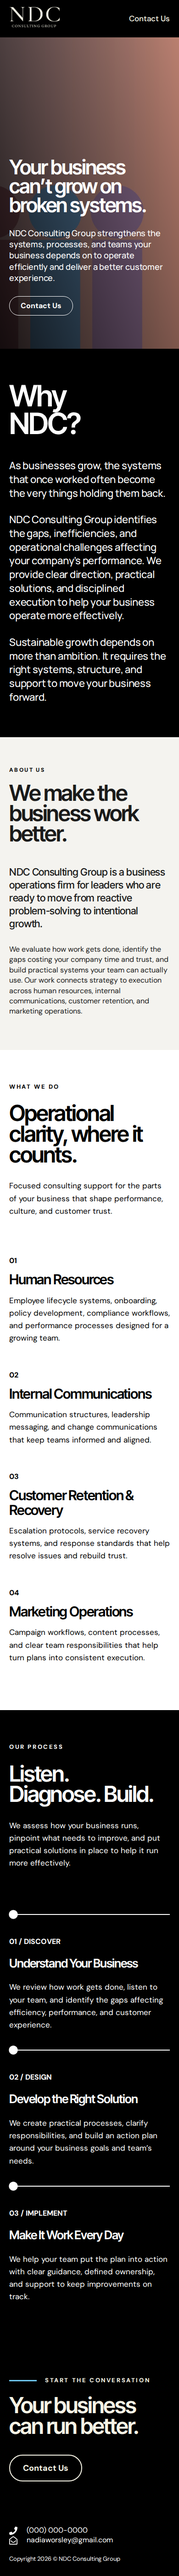
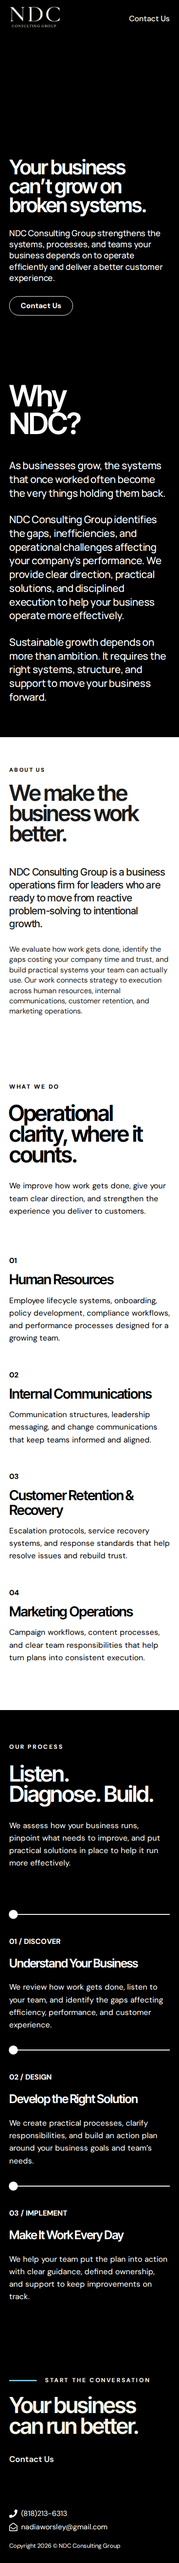
Final client revisions: alignment, copy, CTA link, white sections, footer spacing
- What We Do headline: shift 'Operational' left by the O's side bearing
  (0.047em in Inter Tight) so it lines up with 'where' below.
- What We Do side paragraph: new copy.
- Bottom Contact Us: plain, smaller text link instead of a pill button.
- About Us and Contact sections: solid white backgrounds.
- Footer: exactly 8px between icons and text (Elementor's default icon
  margin and text padding were stacking on top of the indent).

Claude-Session: https://claude.ai/code/session_01F9ZgZWKECaq5b3TWi3gWQP

Changed region(s): [[0.0, 0.0, 1.0, 0.9964]]

diff --git a/wordpress/ndc-hello-child/style.css b/wordpress/ndc-hello-child/style.css
@@ -3,7 +3,7 @@ Theme Name:   NDC Hello Child
 Description:  Child theme of Hello Elementor for NDC Consulting Group. Shows the "NDC Site Header" and "NDC Site Footer" Elementor templates on every page, and provides the [ndc_logo] shortcode.
 Author:       NDC Consulting Group
 Template:     hello-elementor
-Version:      1.5.0
+Version:      1.6.0
 Requires at least: 6.0
 Requires PHP: 7.4
 License:      GNU General Public License v3 or later
@@ -36,7 +36,12 @@ img.ndc-logo,
    caching plugin drops Elementor's icon-list stylesheet. */
 .ndc-site-footer .elementor-icon-list-items { display: flex; flex-wrap: wrap; align-items: center; gap: 12px 36px; list-style: none; margin: 0; padding: 0; }
 .ndc-site-footer .elementor-icon-list-item,
-.ndc-site-footer .elementor-icon-list-item > a { display: flex; align-items: center; gap: 10px; margin: 0; padding: 0; }
+.ndc-site-footer .elementor-icon-list-item > a { display: flex; align-items: center; gap: 0; margin: 0; padding: 0; }
+/* Exactly 8px between each icon and its text. Elementor otherwise stacks its
+   own icon margin and text padding on top of the template's spacing. */
+.ndc-site-footer .elementor-widget-icon-list .elementor-icon-list-item .elementor-icon-list-icon { padding-inline-end: 8px; }
+.ndc-site-footer .elementor-widget-icon-list .elementor-icon-list-item .elementor-icon-list-icon svg { margin: 0; }
+.ndc-site-footer .elementor-widget-icon-list .elementor-icon-list-item .elementor-icon-list-text { padding-inline-start: 0; }
 .ndc-site-footer .elementor-icon-list-item::after { display: none; }
 .ndc-site-footer .elementor-icon-list-icon { display: inline-flex; flex: none; }
 .ndc-site-footer .elementor-icon-list-icon svg { width: 18px; height: 18px; fill: currentColor; }

diff --git a/tools/build_ndc_homepage.py b/tools/build_ndc_homepage.py
@@ -25,7 +25,6 @@ CREAM = "#F6F4E6"        # text on dark sections
 SKY = "#6EC6EE"          # accent line + highlighted phrase
 EYEBROW = "#2A87B4"      # small uppercase labels on light sections
 
-BG_ABOUT = "#F4F3EF"
 
 CONTACT_URL = "/contact/"
 
@@ -402,7 +401,7 @@ def about():
                 width=56, width_tablet=100, row_gap=30, align="flex-start",
             ),
         ],
-        direction="row", justify="space-between", align="flex-start", bg=BG_ABOUT, stack_on="tablet",
+        direction="row", justify="space-between", align="flex-start", bg=WHITE, stack_on="tablet",
         row_gap=48, padding=section_padding(top=(88, 80, 64), bottom=(104, 88, 72)),
         anchor="about", html_tag="section", is_inner=False,
     )
@@ -450,10 +449,10 @@ def services():
             container(
                 [
                     container([eyebrow("What we do", color=BLACK),
-                               display("Operational clarity, where it counts.", color=BLACK)],
+                               display('<span style="margin-left:-0.047em">Operational</span> clarity, where it counts.', color=BLACK)],
                               width=55, width_tablet=100, row_gap=28),
-                    container([body_copy("Focused consulting support for the parts of your business that "
-                                         "shape performance, culture, and customer trust.", color=BLACK)],
+                    container([body_copy("We improve how work gets done, give your team clear direction, and "
+                                         "strengthen the experience you deliver to customers.", color=BLACK)],
                               width=36, width_tablet=80, width_mobile=100),
                 ],
                 direction="row", justify="space-between", align="flex-end", stack_on="tablet", row_gap=32,
@@ -538,7 +537,7 @@ def site_footer():
         "space_between": size(36),
         "icon_color": WHITE,
         "icon_size": size(18),
-        "text_indent": size(10),
+        "text_indent": size(8),
         "text_color": WHITE,
         "text_color_hover": SKY,
         **{k.replace("typography_", "icon_typography_", 1): v
@@ -572,7 +571,9 @@ def contact_cta():
                 ],
                 row_gap=24, width=62, width_tablet=100,
             ),
-            pill_button("Contact Us", CONTACT_URL),
+            heading(f'<a href="{CONTACT_URL}">Contact Us</a>', tag="p", color=CREAM,
+                    typography=typo(FONT_BODY, 20, "600", 1.2, mobile=18),
+                    extra={"title_hover_color": SKY, "_flex_size": "none"}),
         ],
         direction="row", justify="space-between", align="center", stack_on="tablet", row_gap=40,
         padding=section_padding(top=(140, 100, 72), bottom=(140, 100, 72)),
@@ -598,7 +599,7 @@ def contact_form_section():
                 width=58, width_tablet=100,
             ),
         ],
-        direction="row", justify="space-between", align="flex-start", bg=BG_ABOUT, stack_on="tablet",
+        direction="row", justify="space-between", align="flex-start", bg=WHITE, stack_on="tablet",
         row_gap=56, padding=section_padding(top=(120, 96, 64), bottom=(140, 104, 80)),
         anchor="contact-form", html_tag="section", is_inner=False,
     )

diff --git a/wordpress/ndc-hello-child/functions.php b/wordpress/ndc-hello-child/functions.php
@@ -13,7 +13,7 @@
 
 defined( 'ABSPATH' ) || exit;
 
-define( 'NDC_CHILD_VERSION', '1.5.0' );
+define( 'NDC_CHILD_VERSION', '1.6.0' );
 
 /** Template titles looked up when nothing is chosen in the Customizer. */
 const NDC_PART_TITLES = array(

diff --git a/elementor/README.md b/elementor/README.md
@@ -59,7 +59,7 @@ The theme includes the logo in two colours. Both are cropped, transparent PNGs:
 **Homepage sections** (between the site header and footer):
 1. **Hero**: the team photo with "Your business can’t grow on broken systems.", a supporting line, and a small **Contact Us** button that goes to the contact page.
 2. **Why NDC?**: black background, white text; the copy from *Why NDC Consulting Group – Homepage.docx*.
-3. **About us**.
+3. **About us**: white background.
 4. **What we do**: white background, black text, no dividing lines. Human Resources, Internal Communications, Customer Retention & Recovery, Marketing Operations.
 5. **Our process**: black background, white text. Discover → Design → Implement, with copy from *Our Process – Biz Ops Website.docx*.
 6. **Start the conversation**: a call to action.
@@ -158,11 +158,10 @@ Turnstile adds Cloudflare's own check on top of the checks above. It's free, and
 | Token | Value | Used for |
 | --- | --- | --- |
 | Black | `#000000` | Header, hero, "Why NDC?", "Our Process", call to action, footer |
-| White | `#FFFFFF` | Text on black sections; "What We Do" background |
+| White | `#FFFFFF` | Text on black sections; About, What We Do and Contact backgrounds |
 | Ink | `#1A1A1A` | Text on light sections |
 | Cream | `#F6F4E6` | Logo and header links |
 | Sky | `#6EC6EE` | Accent line above "Start the conversation" |
-| About / Contact background | `#F4F3EF` | |
 
 **Fonts (loaded automatically from Google Fonts by Elementor):**
 - **Inter Tight** for headlines.
